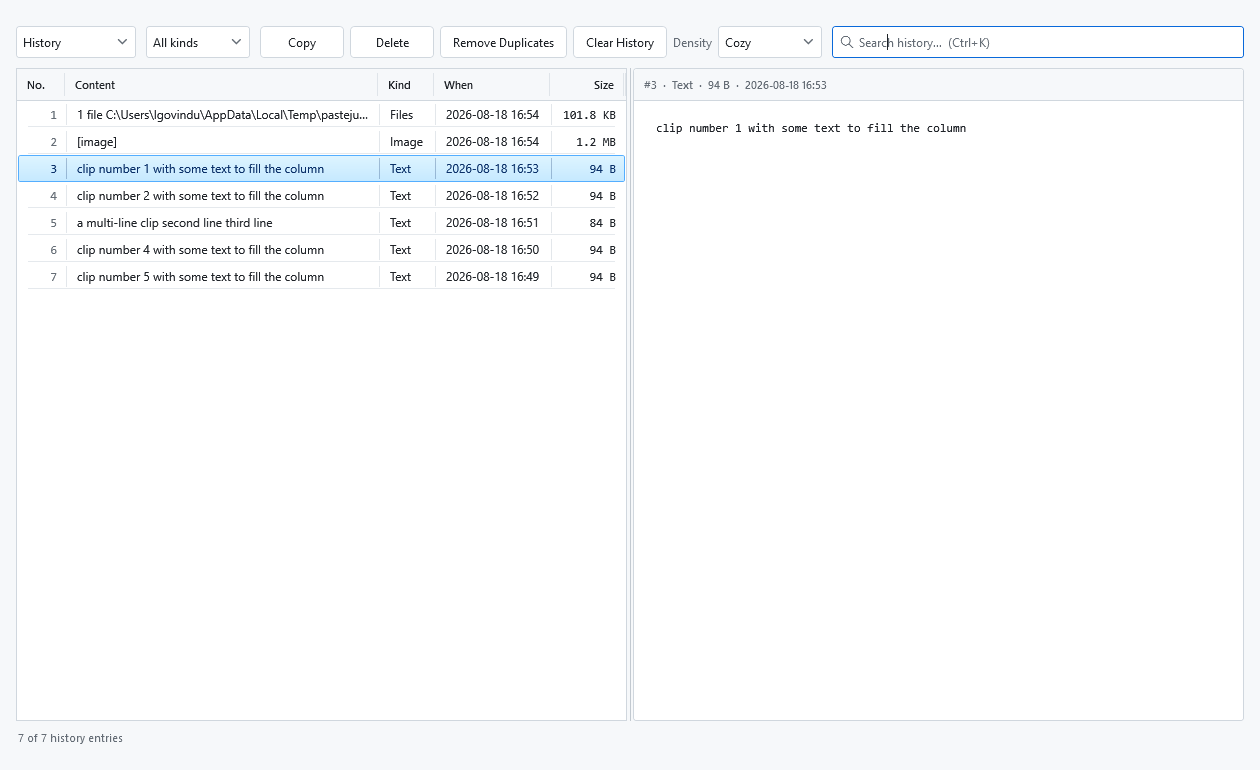
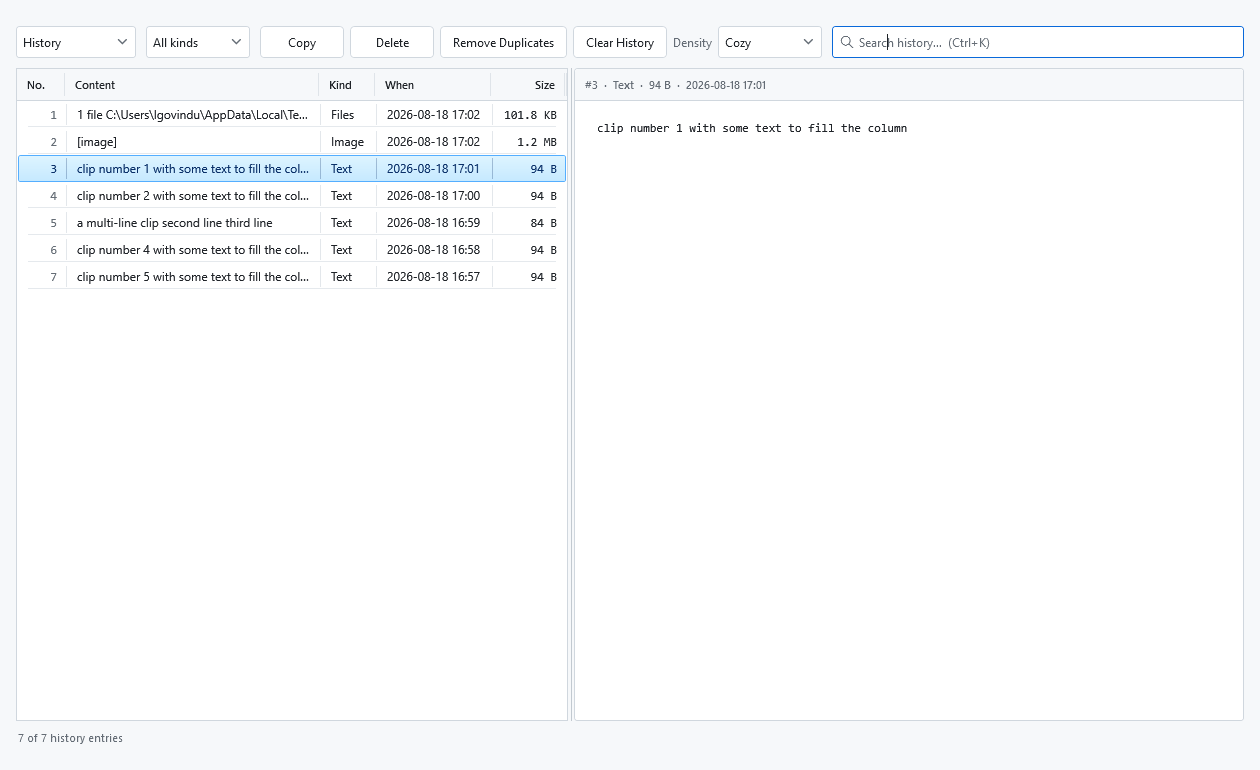
Give the picture the width, not the list
Asked for with a screenshot of the split the user wanted, which was measured
rather than eyeballed: the seam sat at x=563 in a 1254px window, so the list was
551px. It is 552 now, against an even half of the window before.

Absolute rather than a share of the width, because the list's columns are fixed.
Widening the window - or maximising it - should give the room to the preview,
which is what the extra width is for, not to the Content column. The splitter
still moves it and HistoryListWidth remembers where it was left, alongside the
window's own size.

ApplyListWidth runs on Loaded rather than before the first show: ActualWidth is
zero until the window has laid out, and fitting against zero would collapse the
list to its minimum on every opening. WindowGeometry.FitPane covers that case and
two more - a split left wide on a maximised window is brought in so the preview
keeps its 240px minimum, and the list's own minimum wins when even that will not
fit.

940 tests, smoke clean, manual screenshots regenerated at the new split.

Changed region(s): [[0.3095, 0.0935, 0.7738, 0.374], [0.2476, 0.2182, 0.2786, 0.374], [0.2476, 0.0935, 0.2786, 0.1558]]

diff --git a/src/PasteJump.App/Views/HistoryWindow.xaml b/src/PasteJump.App/Views/HistoryWindow.xaml
@@ -173,11 +173,18 @@
 
         <!-- Split: list on the left, preview on the right -->
         <Grid Grid.Row="1">
+            <!--
+                The list takes a fixed width and the preview takes the rest, rather than the two splitting the
+                window evenly as they did. Measured from a screenshot of the split the user asked for: 551px of
+                list in a 1254px window, so 552 here. Absolute rather than a share of the width because the list's
+                columns are fixed - widening the window should give the room to the picture, which is what it is
+                for, not to the Content column. The splitter still moves it, and where it is left is remembered.
+            -->
             <Grid.ColumnDefinitions>
-                <ColumnDefinition Width="1*" MinWidth="300" />
+                <ColumnDefinition x:Name="ListColumn" Width="552" MinWidth="300" />
                 <!-- 6px is the grab area, not the visible divider: the seam drawn inside it is 1px. -->
                 <ColumnDefinition Width="6" />
-                <ColumnDefinition Width="1*" MinWidth="240" />
+                <ColumnDefinition Width="*" MinWidth="240" />
             </Grid.ColumnDefinitions>
 
             <!--

diff --git a/src/PasteJump.Core/Settings/WindowGeometry.cs b/src/PasteJump.Core/Settings/WindowGeometry.cs
@@ -34,6 +34,38 @@ public static class WindowGeometry
         double minHeight)
         => (Fit(width, workWidth, minWidth), Fit(height, workHeight, minHeight));
 
+    /// <summary>
+    /// The width to give the list pane: the remembered one, kept wide enough to be a list and narrow enough to
+    /// leave the preview its own minimum.
+    /// </summary>
+    /// <param name="wanted">The remembered list width.</param>
+    /// <param name="totalWidth">Width available to both panes and the splitter between them.</param>
+    /// <param name="minList">The list's own minimum.</param>
+    /// <param name="minPreview">The preview's minimum, which is what stops the list eating the window.</param>
+    /// <param name="splitterWidth">The grab area between them, which belongs to neither.</param>
+    /// <remarks>
+    /// Needed because the list width is remembered independently of the window width: a split left at 900px on a
+    /// maximised window would, restored on a 1000px window, leave the preview a sliver - and the user would find a
+    /// pane they cannot see with no obvious way to know why. The list's minimum wins if even that will not fit,
+    /// for the same reason it does in <see cref="FitTo"/>.
+    /// </remarks>
+    public static double FitPane(
+        double wanted,
+        double totalWidth,
+        double minList,
+        double minPreview,
+        double splitterWidth)
+    {
+        if (totalWidth <= 0)
+        {
+            return Math.Max(wanted, minList);
+        }
+
+        var widest = totalWidth - splitterWidth - minPreview;
+
+        return Math.Max(Math.Min(wanted, widest), minList);
+    }
+
     private static double Fit(double wanted, double available, double minimum)
     {
         // An unusable work area - which is what a disconnected monitor reports - leaves the wanted size alone

diff --git a/src/PasteJump.App/App.xaml.cs b/src/PasteJump.App/App.xaml.cs
@@ -850,6 +850,9 @@ public partial class App : Application
                 _historyWindow.WindowState = WindowState.Maximized;
             }
 
+            // The split needs a laid-out window to fit against, so it waits for Loaded - see ApplyListWidth.
+            _historyWindow.Loaded += (_, _) => _historyWindow?.ApplyListWidth(_settings.HistoryListWidth);
+
             _historyWindow.Closed += (_, _) =>
             {
                 RememberHistoryWindowSize(_historyWindow);
@@ -1055,6 +1058,9 @@ public partial class App : Application
 
         var maximised = window.WindowState == WindowState.Maximized;
         var bounds = window.RestoreBounds;
+        var listWidth = window is HistoryWindow history && history.CurrentListWidth > 0
+            ? history.CurrentListWidth
+            : _settings.HistoryListWidth;
 
         // An empty RestoreBounds means the window never really laid out - nothing worth saving over what we have.
         var width = bounds.Width > 0 ? (int)Math.Round(bounds.Width) : _settings.HistoryWindowWidth;
@@ -1062,7 +1068,8 @@ public partial class App : Application
 
         if (width == _settings.HistoryWindowWidth
             && height == _settings.HistoryWindowHeight
-            && maximised == _settings.HistoryWindowMaximised)
+            && maximised == _settings.HistoryWindowMaximised
+            && listWidth == _settings.HistoryListWidth)
         {
             return;
         }
@@ -1070,6 +1077,7 @@ public partial class App : Application
         _settings.HistoryWindowWidth = width;
         _settings.HistoryWindowHeight = height;
         _settings.HistoryWindowMaximised = maximised;
+        _settings.HistoryListWidth = listWidth;
         _settings.Normalise();
         _settingsStore.Save(_settings);
     }

diff --git a/src/PasteJump.Core/Settings/PasteJumpSettings.cs b/src/PasteJump.Core/Settings/PasteJumpSettings.cs
@@ -68,6 +68,17 @@ public sealed class PasteJumpSettings
     public int HistoryWindowHeight { get; set; } = 770;
 
     /// <summary>
+    /// How wide the clipboard list is, leaving the rest of the window to the preview. Remembered with the window's
+    /// own size, and moved by dragging the splitter.
+    /// </summary>
+    /// <remarks>
+    /// 552 is measured rather than chosen: it is the split the user asked for, 551px of list in a 1254px window.
+    /// Fitted by <see cref="WindowGeometry.FitPane"/> on the way in, so a wide split remembered on a maximised
+    /// window cannot leave the preview a sliver when the window opens smaller.
+    /// </remarks>
+    public int HistoryListWidth { get; set; } = 552;
+
+    /// <summary>
     /// Whether the history window was maximised when it was last closed.
     /// </summary>
     /// <remarks>
@@ -574,6 +585,7 @@ public sealed class PasteJumpSettings
         ClipboardRepublishMs = Math.Clamp(ClipboardRepublishMs, SettingsBounds.ClipboardRepublishMs.Min, SettingsBounds.ClipboardRepublishMs.Max);
         HistoryWindowWidth = Math.Clamp(HistoryWindowWidth, SettingsBounds.HistoryWindowWidth.Min, SettingsBounds.HistoryWindowWidth.Max);
         HistoryWindowHeight = Math.Clamp(HistoryWindowHeight, SettingsBounds.HistoryWindowHeight.Min, SettingsBounds.HistoryWindowHeight.Max);
+        HistoryListWidth = Math.Clamp(HistoryListWidth, SettingsBounds.HistoryListWidth.Min, SettingsBounds.HistoryListWidth.Max);
 
         // Trimmed rather than validated against installed families: a font that is not on this machine may well be
         // on the next one the settings file travels to, and dropping the name here would silently lose it.

diff --git a/src/PasteJump.App/Views/HistoryWindow.xaml.cs b/src/PasteJump.App/Views/HistoryWindow.xaml.cs
@@ -2201,4 +2201,36 @@ public partial class HistoryWindow : Window
         return (origin.X, origin.Y, ImageScale.ScaleX);
     }
 
+    /// <summary>
+    /// Sets how wide the list pane is, fitted so the preview keeps its own minimum.
+    /// </summary>
+    /// <remarks>
+    /// Applied after the window has a width to fit into, which is why the caller does it on Loaded rather than
+    /// before the first show: ActualWidth is zero until then, and fitting against zero would collapse the list to
+    /// its minimum on every opening.
+    /// </remarks>
+    public void ApplyListWidth(int width)
+    {
+        var available = ActualWidth > 0 ? ActualWidth - SplitPadding : Width - SplitPadding;
+
+        ListColumn.Width = new GridLength(WindowGeometry.FitPane(
+            width,
+            available,
+            ListColumn.MinWidth,
+            PreviewMinWidth,
+            SplitterWidth));
+    }
+
+    /// <summary>The list pane's width as it stands, for remembering where the splitter was left.</summary>
+    public int CurrentListWidth => (int)Math.Round(ListColumn.ActualWidth);
+
+    /// <summary>The preview's own MinWidth, from the XAML. Stated here because a column definition cannot be named twice.</summary>
+    private const double PreviewMinWidth = 240;
+
+    /// <summary>The splitter's grab area, which belongs to neither pane.</summary>
+    private const double SplitterWidth = 6;
+
+    /// <summary>The window chrome and margins the split grid does not get: 12 either side.</summary>
+    private const double SplitPadding = 24;
+
 }

diff --git a/tests/PasteJump.Core.Tests/WindowGeometryTests.cs b/tests/PasteJump.Core.Tests/WindowGeometryTests.cs
@@ -62,4 +62,33 @@ public class WindowGeometryTests
         Assert.Equal(1260, width);
         Assert.Equal(770, height);
     }
+    [Fact]
+    public void A_list_width_that_fits_is_left_alone()
+    {
+        // The default split: 552 of list in a 1236px content area, which is what was asked for.
+        Assert.Equal(552, WindowGeometry.FitPane(552, 1236, 300, 240, 6));
+    }
+
+    [Fact]
+    public void A_list_width_remembered_from_a_wider_window_is_brought_in()
+    {
+        // Left at 900 on a maximised window, then opened at 1000: honouring it would leave the preview 94px, so
+        // the user would find a pane they cannot use and nothing to explain why.
+        Assert.Equal(1000 - 6 - 240, WindowGeometry.FitPane(900, 1000, 300, 240, 6));
+    }
+
+    [Fact]
+    public void The_lists_own_minimum_wins_when_even_that_will_not_fit()
+    {
+        Assert.Equal(300, WindowGeometry.FitPane(552, 400, 300, 240, 6));
+    }
+
+    [Fact]
+    public void A_window_with_no_width_yet_leaves_the_remembered_split_alone()
+    {
+        // ActualWidth is zero until the window has laid out. Fitting against that would collapse the list to its
+        // minimum on every opening, which is exactly the bug this guards.
+        Assert.Equal(552, WindowGeometry.FitPane(552, 0, 300, 240, 6));
+    }
+
 }

diff --git a/src/PasteJump.App/Views/SettingsWindow.xaml.cs b/src/PasteJump.App/Views/SettingsWindow.xaml.cs
@@ -2054,6 +2054,7 @@ public partial class SettingsWindow : Window
         [nameof(PasteJumpSettings.HistoryWindowWidth)] = "Advanced",
         [nameof(PasteJumpSettings.HistoryWindowHeight)] = "Advanced",
         [nameof(PasteJumpSettings.HistoryWindowMaximised)] = "Advanced",
+        [nameof(PasteJumpSettings.HistoryListWidth)] = "Advanced",
         [nameof(PasteJumpSettings.OverlayPreviewMaxWidth)] = "Appearance",
         [nameof(PasteJumpSettings.OverlayPreviewMaxHeight)] = "Appearance",
         [nameof(PasteJumpSettings.OverlayPreviewChars)] = "Appearance",
@@ -2292,6 +2293,7 @@ public partial class SettingsWindow : Window
         settings.HistoryWindowWidth = _baseline.HistoryWindowWidth;
         settings.HistoryWindowHeight = _baseline.HistoryWindowHeight;
         settings.HistoryWindowMaximised = _baseline.HistoryWindowMaximised;
+        settings.HistoryListWidth = _baseline.HistoryListWidth;
 
         if (!int.TryParse(MaxClipsBox.Text, NumberStyles.Integer, CultureInfo.CurrentCulture, out var maxClips)
             || maxClips < 1)

diff --git a/src/PasteJump.Core/Settings/SettingsBounds.cs b/src/PasteJump.Core/Settings/SettingsBounds.cs
@@ -69,6 +69,9 @@ public static class SettingsBounds
     /// <inheritdoc cref="HistoryWindowWidth"/>
     public static SettingBound HistoryWindowHeight { get; } = new(400, 20_000);
 
+    /// <summary>The list pane's remembered width. The floor is its own MinWidth.</summary>
+    public static SettingBound HistoryListWidth { get; } = new(300, 20_000);
+
     public static SettingBound OverlayFontSize { get; } = new(9, 24);
 
     public static SettingBound OverlayPreviewChars { get; } = new(40, 4_000);

diff --git a/CLAUDE.md b/CLAUDE.md
@@ -43,7 +43,7 @@ symptom is a `.zip` whose name disagrees with the exe inside it. It still verifi
 | | |
 |---|---|
 | Build | Release, 0 warnings, 0 errors |
-| Tests | 936 in Debug (`dotnet test`) - 883 in Core.Tests, 53 in Interop.Tests; **934 in Release**, see below |
+| Tests | 940 in Debug (`dotnet test`) - 887 in Core.Tests, 53 in Interop.Tests; **938 in Release**, see below |
 | UI smoke | `tests/PasteJump.UiSmoke` — every window, both themes, exit 0 |
 | CI | `.github/workflows/build.yml` — build, tests, the window renders, and the Markdown manual check |
 | Manual | HTML in `docs/help` is the SOURCE; `docs/manual/*.md` is generated from it for GitHub |
@@ -1131,6 +1131,15 @@ Every one of these compiles, builds clean, and silently defeats the theme.
     window writes them itself, so a dialog that reset them would undo a resize every time Settings was opened.
   - The XAML default moved too, since the UI smoke harness constructs the window with no settings - which is also
     why every history screenshot in the manual is now 1260x770.
+  - **The splitter is remembered as well, and the list is now a FIXED width rather than half the window.** Asked for
+    in the same sitting: the list pane was `1*` against the preview's `1*`, and it is 552 now - measured from the
+    screenshot of the split the user wanted, 551px of list in a 1254px window. Absolute rather than a share, because
+    the list's columns are fixed: widening the window should give the room to the picture, which is what the extra
+    width is for, not to the Content column. `HistoryListWidth` remembers where the splitter is left.
+  - **`ApplyListWidth` runs on `Loaded`, not before the first show.** `ActualWidth` is zero until the window has laid
+    out, and `WindowGeometry.FitPane` fitting against zero would collapse the list to its minimum on every opening -
+    which is what the fourth of its tests pins. The other cases: a split left wide on a maximised window is brought
+    in so the preview keeps its 240px minimum, and the list's own minimum wins when even that will not fit.
 - **A picture at 100% was blurry because it landed on a HALF pixel (2026-08-18).** Reported as "even for 100% it is
   showing more than 100% I think, that is why we are not seeing the clarity, they are blurred". The numbers were
   innocent - the clip really was 278x400, its DIB carried `XPelsPerMeter=0` so WPF read it as 96 dpi, and the display
@@ -1709,8 +1718,8 @@ Every one of these compiles, builds clean, and silently defeats the theme.
 
 ```
 dotnet build                                        # zero warnings expected
-dotnet test                                         # 936 tests (Debug)
-dotnet test -c Release                              # 934 - what CI runs, and it is not the same set
+dotnet test                                         # 940 tests (Debug)
+dotnet test -c Release                              # 938 - what CI runs, and it is not the same set
 dotnet publish src/PasteJump.App/PasteJump.App.csproj -c Release -o artifacts/publish
 dotnet run --project tests/PasteJump.Interop.Probe    # Phase 0 spikes (needs a human)
 dotnet run --project tests/PasteJump.UiSmoke          # every window, both themes
